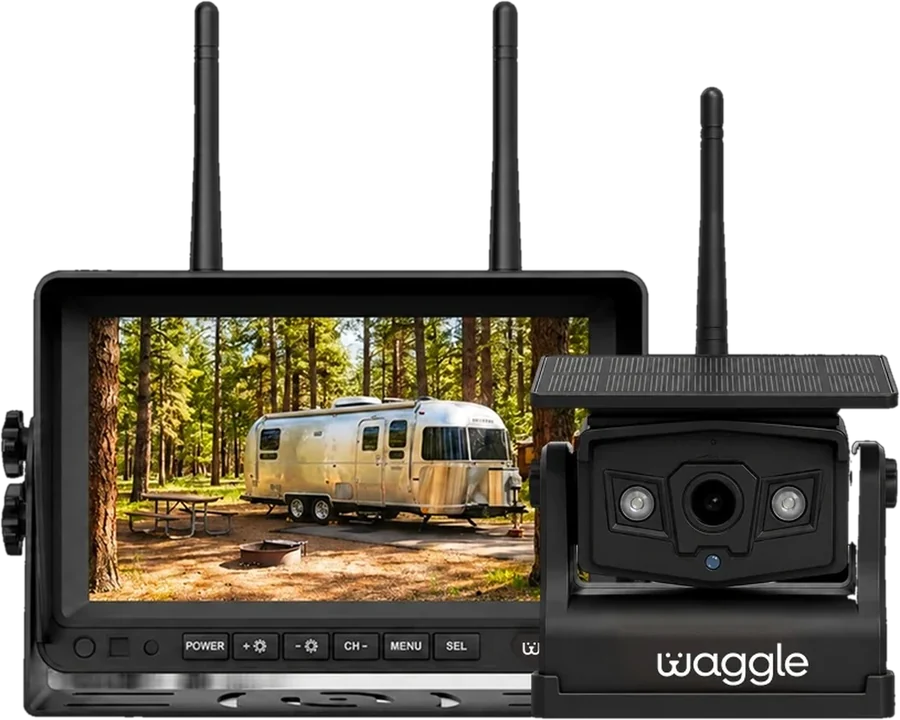
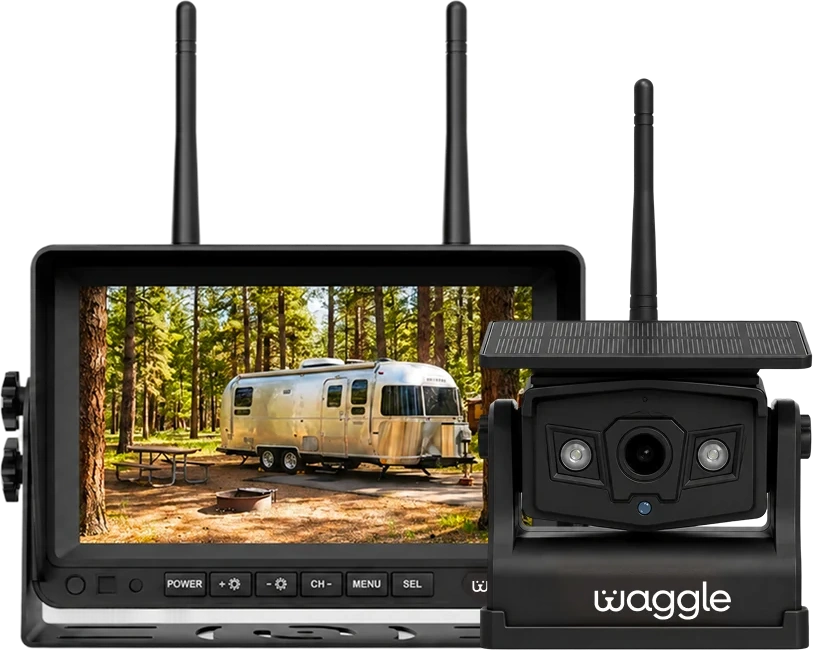
Use clean high-res Observation System photo
Claude-Session: https://claude.ai/code/session_01QZftdxw5x2zWThePXvV59m

diff --git a/src/components/product/ProductArt.tsx b/src/components/product/ProductArt.tsx
@@ -14,7 +14,7 @@ export const ART_PHOTOS: Partial<Record<ArtKey, { src: string; w: number; h: num
   "mini-cam-4g": { src: "/images/products/rv-4g-mini-camera.webp", w: 137, h: 232 },
   "camera-4g": { src: "/images/products/rv-4g-camera.webp", w: 425, h: 517 },
   "travelcam": { src: "/images/products/waggle-4g-travelcam.webp", w: 504, h: 648 },
-  "observation-system": { src: "/images/products/rv-observation-system.webp", w: 900, h: 720 },
+  "observation-system": { src: "/images/products/rv-observation-system.webp", w: 813, h: 650 },
   "solar-panel": { src: "/images/products/accessory-solar-panel.webp", w: 268, h: 364 },
   "tripod": { src: "/images/products/accessory-tripod.webp", w: 350, h: 384 },
   "vacuum-mount": { src: "/images/products/accessory-vacuum-mount.webp", w: 392, h: 232 },
